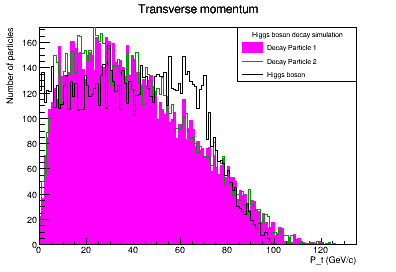
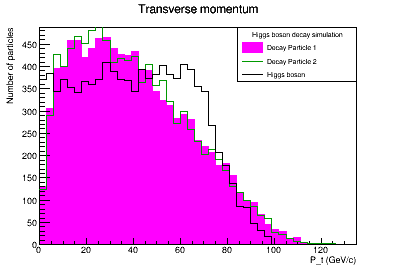
Zad5: Prosirila bin

Changed region(s): [[0.0606, 0.0882, 0.8182, 0.9118]]

diff --git a/Vjezbe_5/Analyzer.cpp b/Vjezbe_5/Analyzer.cpp
@@ -11,9 +11,9 @@
 
 void Analyzer::PlotHistogram()
 {
-    TH1F *h1 = new TH1F("h1", "Transverse P 1", 135, 0., 135.);
-    TH1F *h2 = new TH1F("h2", "Transverse P 2", 135, 0., 135.);
-    TH1F *hH = new TH1F("hH", "Transverse P Higgs", 135, 0., 135.);
+    TH1F *h1 = new TH1F("h1", "Transverse P 1", 45, 0., 135.);
+    TH1F *h2 = new TH1F("h2", "Transverse P 2", 45, 0., 135.);
+    TH1F *hH = new TH1F("hH", "Transverse P Higgs", 45, 0., 135.);
     TCanvas c("c", "V5 ZAD2", 0,0,400,300);
     TFile *fout = TFile::Open("H_TransP_12+H.root", "RECREATE");
     
